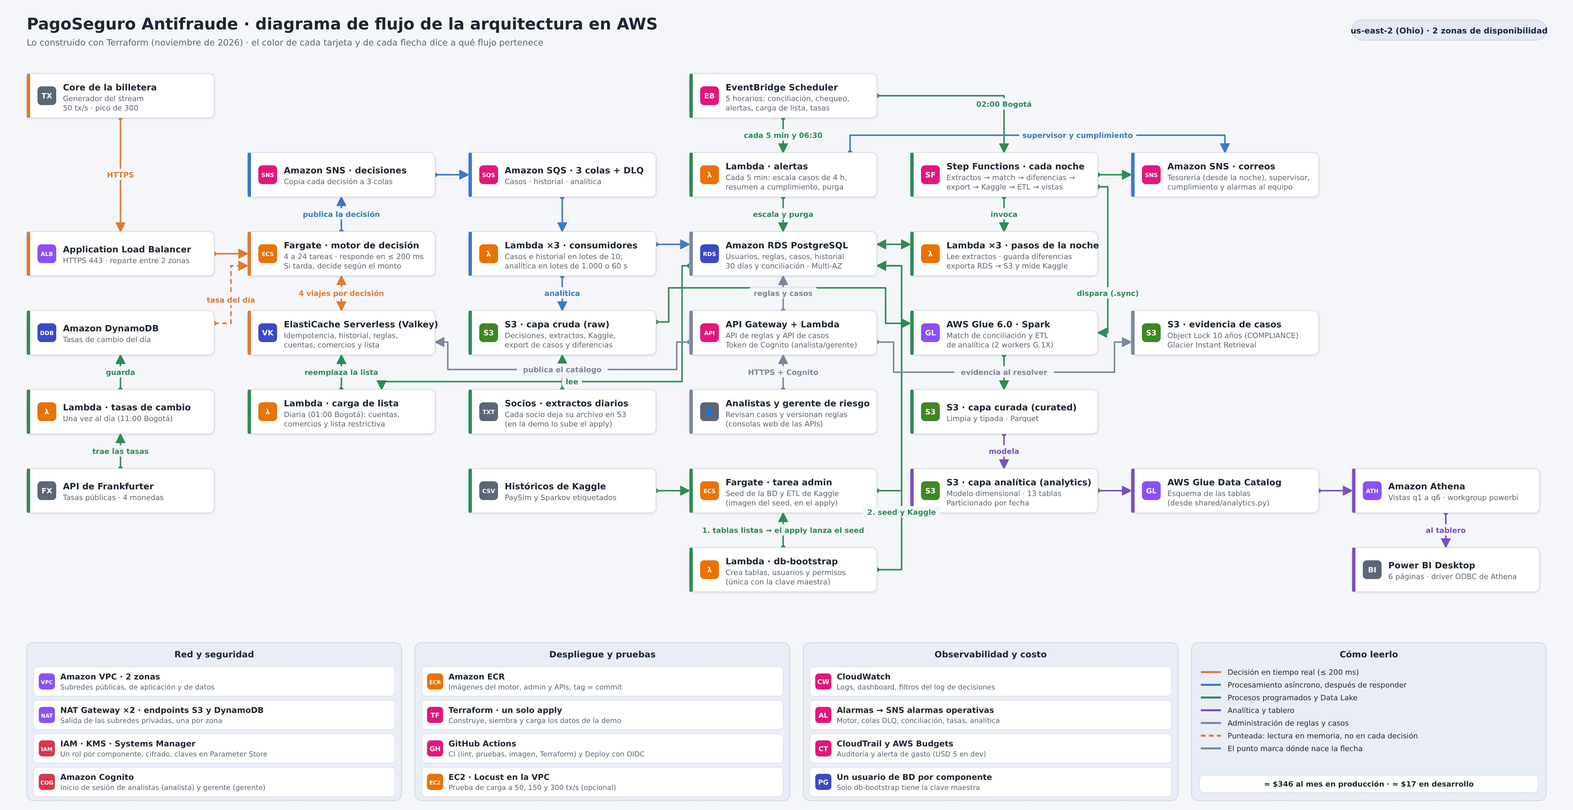
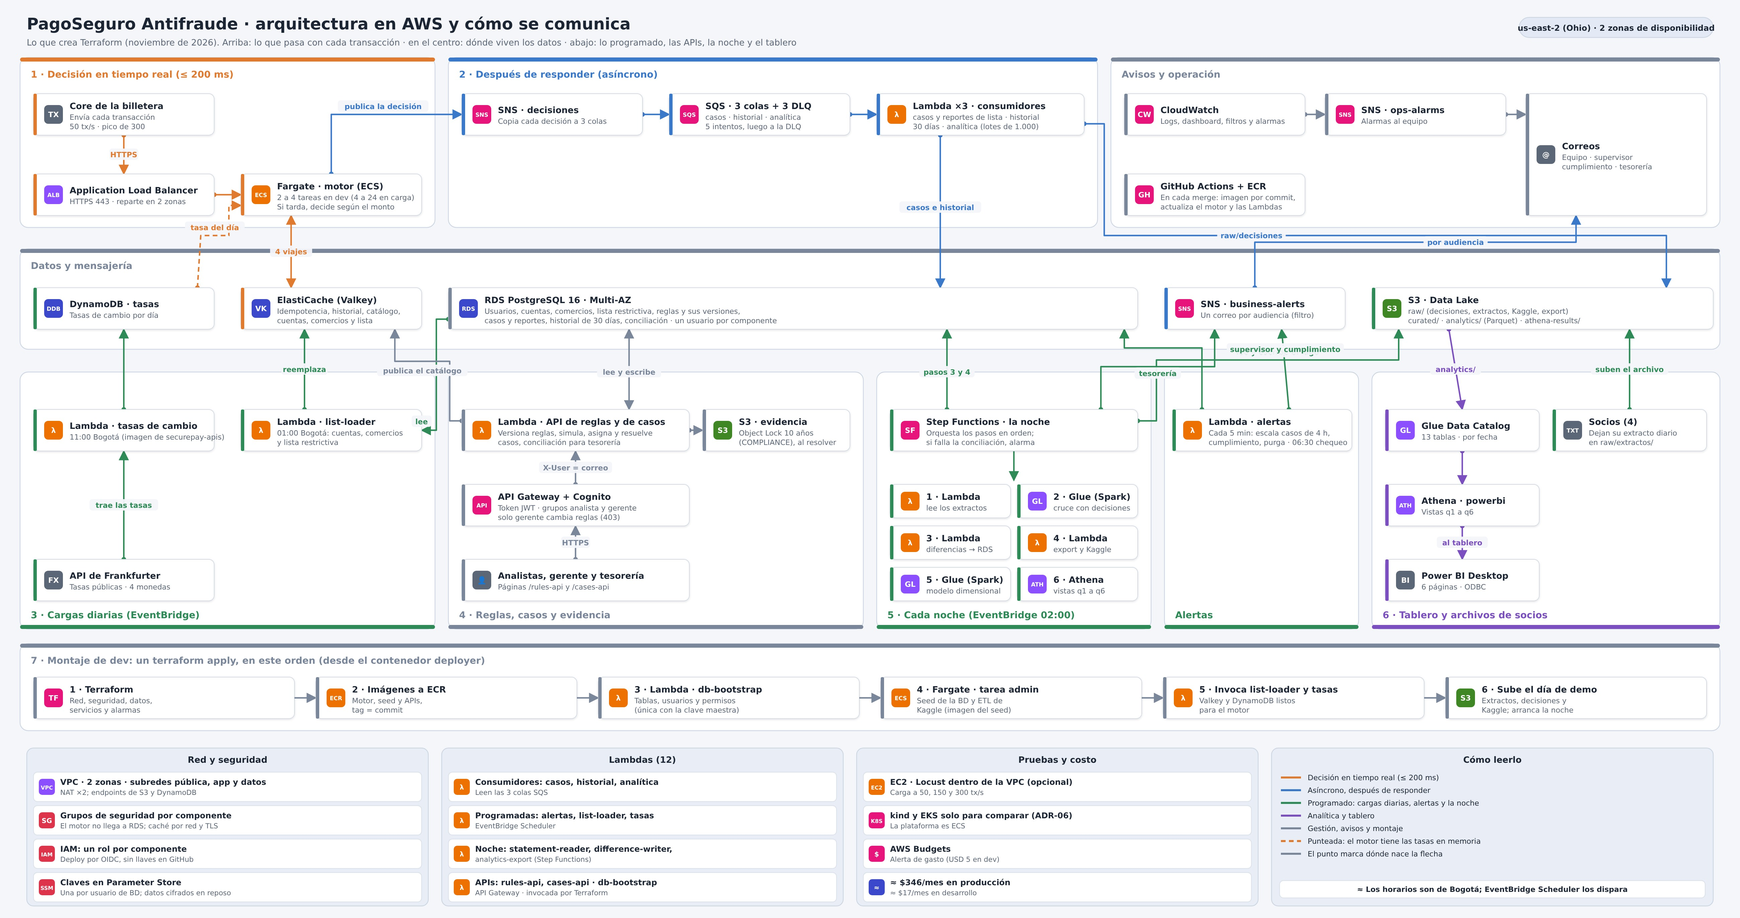
docs(MAG-308): redraw the architecture flow by zones
Redrawn from the Terraform modules: a data band in the middle, the
per-transaction zones above, the daily loads, APIs, night, alerts and
dashboard below, and the order of the one apply at the bottom.

diff --git a/doc-website/diagrams/architecture_flow.py b/doc-website/diagrams/architecture_flow.py
@@ -1,175 +1,215 @@
 """Architecture flow on AWS: doc-website/static/img/architecture-flow.jpg.
 
-Labels in Spanish, like the first version of the diagram (the pages say
-so under the image). Run from the repository root:
+Drawn from what Terraform creates (infra/terraform/modules, envs/dev). The
+labels are in Spanish, like the first version of the diagram (the pages say
+so under the image). The picture has a data band in the middle (DynamoDB,
+Valkey, RDS, the SNS topic of the e-mails and the Data Lake) and the zones
+that use it above (what happens per transaction) and below (what runs on a
+schedule, the APIs, the night and the dashboard), plus the order of the one
+`terraform apply` at the bottom. Run from the repository root:
 
-    uv run --group load python doc-website/diagrams/architecture_flow.py
+    python3 doc-website/diagrams/architecture_flow.py
 
-(any environment with Playwright works; the image needs Chromium).
-Change it when a service, a flow or the monthly cost changes.
+(Node's Playwright with Chromium draws the image). Change it when a
+service, a flow or the monthly cost changes.
 """
 
 from __future__ import annotations
 
 from pathlib import Path
 
-from common import Card, Svg, legend, panel, render
+from common import FLOW, MUTED, Card, Svg, legend, panel, render
 
-W, H = 2350, 1210
-CW, CH = 280, 66
-
-
-def x(c: int) -> float:
-    return 40 + c * 330
+W, H = 2600, 1372
+CW, CH = 270, 62
 
 
-def y(r: int) -> float:
-    return 110 + r * 118
+def zone(s: Svg, x, y, w, h, title, flow, bottom=False):
+    """A white area with a colored bar; the title goes at the bottom when
+    arrows come in from above."""
+    s.box(x, y, w, h, fill="#ffffff", stroke="#cdd6e3", rx=12)
+    bar = y + h - 6 if bottom else y
+    s.add(f'<rect x="{x}" y="{bar}" width="{w}" height="6" rx="3" fill="{FLOW[flow]}"/>')
+    s.text(x + 16, y + h - 16 if bottom else y + 30, title, size=14, weight="bold", color=FLOW[flow])
 
 
-def lane(c: int) -> float:
-    """Vertical lane between column c and c+1."""
-    return x(c) + CW + 25
-
-
-def gap(r: int) -> float:
-    """Horizontal lane between row r and r+1."""
-    return y(r) + CH + 26
-
-
-def card(c, r, title, sub, flow, icon, tag, **kw) -> Card:
-    return Card(x(c), y(r), title, sub, flow, icon, tag, w=CW, h=CH, **kw)
+def card(x, y, title, sub, flow, icon, tag, w=CW, h=CH, **kw) -> Card:
+    return Card(x, y, title, sub, flow, icon, tag, w=w, h=h, **kw)
 
 
 s = Svg(W, H)
-s.text(40, 44, "PagoSeguro Antifraude · diagrama de flujo de la arquitectura en AWS", size=24, weight="bold")
-s.text(40, 68, "Lo construido con Terraform (noviembre de 2026) · el color de cada tarjeta y de cada flecha dice a qué flujo pertenece", size=13, color="#5b6676")
-s.box(W - 330, 30, 290, 30, fill="#e3eaf5", stroke="#cdd6e3", rx=15)
-s.text(W - 185, 50, "us-east-2 (Ohio) · 2 zonas de disponibilidad", size=12, weight="bold", anchor="middle")
+s.text(40, 44, "PagoSeguro Antifraude · arquitectura en AWS y cómo se comunica", size=24, weight="bold")
+s.text(40, 68, "Lo que crea Terraform (noviembre de 2026). Arriba: lo que pasa con cada transacción · en el centro: dónde viven los datos · abajo: lo programado, las APIs, la noche y el tablero", size=13, color=MUTED)
+s.box(W - 330, 26, 290, 30, fill="#e3eaf5", stroke="#cdd6e3", rx=15)
+s.text(W - 185, 46, "us-east-2 (Ohio) · 2 zonas de disponibilidad", size=12, weight="bold", anchor="middle")
 
-# Column 0: the wallet's entry and the exchange rates.
-core = card(0, 0, "Core de la billetera", "Generador del stream\n50 tx/s · pico de 300", "realtime", "external", "TX")
-alb = card(0, 2, "Application Load Balancer", "HTTPS 443 · reparte entre 2 zonas", "realtime", "network", "ALB")
-rates = card(0, 3, "Amazon DynamoDB", "Tasas de cambio del día", "batch", "database", "DDB")
-rates_fn = card(0, 4, "Lambda · tasas de cambio", "Una vez al día (11:00 Bogotá)", "batch", "compute", "λ")
-frank = card(0, 5, "API de Frankfurter", "Tasas públicas · 4 monedas", "batch", "external", "FX")
+# ---- Top band: per transaction --------------------------------------------
+TOP, R1, R2 = 86, 140, 260
+zone(s, 30, TOP, 620, 254, "1 · Decisión en tiempo real (≤ 200 ms)", "realtime")
+zone(s, 670, TOP, 970, 254, "2 · Después de responder (asíncrono)", "async")
+zone(s, 1660, TOP, 910, 254, "Avisos y operación", "admin")
 
-# Column 1: the engine and its cache.
-sns_dec = card(1, 1, "Amazon SNS · decisiones", "Copia cada decisión a 3 colas", "async", "integration", "SNS")
-engine = card(1, 2, "Fargate · motor de decisión", "4 a 24 tareas · responde en ≤ 200 ms\nSi tarda, decide según el monto", "realtime", "compute", "ECS")
-cache = card(1, 3, "ElastiCache Serverless (Valkey)", "Idempotencia, historial, reglas,\ncuentas, comercios y lista", "realtime", "database", "VK")
-loader = card(1, 4, "Lambda · carga de lista", "Diaria (01:00 Bogotá): cuentas,\ncomercios y lista restrictiva", "batch", "compute", "λ")
+core = card(50, R1, "Core de la billetera", "Envía cada transacción\n50 tx/s · pico de 300", "realtime", "external", "TX")
+alb = card(50, R2, "Application Load Balancer", "HTTPS 443 · reparte en 2 zonas", "realtime", "network", "ALB")
+engine = card(360, R2, "Fargate · motor (ECS)", "2 a 4 tareas en dev (4 a 24 en carga)\nSi tarda, decide según el monto", "realtime", "compute", "ECS")
 
-# Column 2: the asynchronous path and the raw layer.
-sqs = card(2, 1, "Amazon SQS · 3 colas + DLQ", "Casos · historial · analítica", "async", "integration", "SQS")
-consumers = card(2, 2, "Lambda ×3 · consumidores", "Casos e historial en lotes de 10;\nanalítica en lotes de 1.000 o 60 s", "async", "compute", "λ")
-raw = card(2, 3, "S3 · capa cruda (raw)", "Decisiones, extractos, Kaggle,\nexport de casos y diferencias", "batch", "storage", "S3")
-partners = card(2, 4, "Socios · extractos diarios", "Cada socio deja su archivo en S3\n(en la demo lo sube el apply)", "batch", "external", "TXT")
-kaggle = card(2, 5, "Históricos de Kaggle", "PaySim y Sparkov etiquetados", "batch", "external", "CSV")
+sns_dec = card(690, R1, "SNS · decisiones", "Copia cada decisión a 3 colas", "async", "integration", "SNS")
+sqs = card(1000, R1, "SQS · 3 colas + 3 DLQ", "casos · historial · analítica\n5 intentos, luego a la DLQ", "async", "integration", "SQS")
+consumers = card(1310, R1, "Lambda ×3 · consumidores", "casos y reportes de lista · historial\n30 días · analítica (lotes de 1.000)", "async", "compute", "λ", w=310)
 
-# Column 3: schedules, alerts, the database and the APIs.
-sched = card(3, 0, "EventBridge Scheduler", "5 horarios: conciliación, chequeo,\nalertas, carga de lista, tasas", "batch", "management", "EB")
-alerts = card(3, 1, "Lambda · alertas", "Cada 5 min: escala casos de 4 h,\nresumen a cumplimiento, purga", "batch", "compute", "λ")
-rds = card(3, 2, "Amazon RDS PostgreSQL", "Usuarios, reglas, casos, historial\n30 días y conciliación · Multi-AZ", "admin", "database", "RDS")
-api = card(3, 3, "API Gateway + Lambda", "API de reglas y API de casos\nToken de Cognito (analista/gerente)", "admin", "integration", "API")
-people = card(3, 4, "Analistas y gerente de riesgo", "Revisan casos y versionan reglas\n(consolas web de las APIs)", "admin", "external", "👤")
-admin = card(3, 5, "Fargate · tarea admin", "Seed de la BD y ETL de Kaggle\n(imagen del seed, en el apply)", "batch", "compute", "ECS")
-dbboot = card(3, 6, "Lambda · db-bootstrap", "Crea tablas, usuarios y permisos\n(única con la clave maestra)", "batch", "compute", "λ")
+cw = card(1680, R1, "CloudWatch", "Logs, dashboard, filtros y alarmas", "admin", "management", "CW")
+sns_ops = card(1980, R1, "SNS · ops-alarms", "Alarmas al equipo", "admin", "integration", "SNS")
+mails = card(2280, R1, "Correos", "Equipo · supervisor\ncumplimiento · tesorería", "admin", "external", "@", h=182)
+deploy = card(1680, R2, "GitHub Actions + ECR", "En cada merge: imagen por commit,\nactualiza el motor y las Lambdas", "admin", "management", "GH")
 
-# Column 4: the nightly pipeline.
-sfn = card(4, 1, "Step Functions · cada noche", "Extractos → match → diferencias →\nexport → Kaggle → ETL → vistas", "batch", "integration", "SF")
-night = card(4, 2, "Lambda ×3 · pasos de la noche", "Lee extractos · guarda diferencias\nexporta RDS → S3 y mide Kaggle", "batch", "compute", "λ")
-glue = card(4, 3, "AWS Glue 6.0 · Spark", "Match de conciliación y ETL\nde analítica (2 workers G.1X)", "batch", "analytics", "GL")
-curated = card(4, 4, "S3 · capa curada (curated)", "Limpia y tipada · Parquet", "batch", "storage", "S3")
-model = card(4, 5, "S3 · capa analítica (analytics)", "Modelo dimensional · 13 tablas\nParticionado por fecha", "analytics", "storage", "S3")
+# ---- Data band --------------------------------------------------------------
+zone(s, 30, 372, 2540, 150, "Datos y mensajería", "admin")
+DY = 430
+ddb = card(50, DY, "DynamoDB · tasas", "Tasas de cambio por día", "batch", "database", "DDB")
+valkey = card(360, DY, "ElastiCache (Valkey)", "Idempotencia, historial, catálogo,\ncuentas, comercios y lista", "realtime", "database", "VK")
+rds = card(670, DY, "RDS PostgreSQL 16 · Multi-AZ", "Usuarios, cuentas, comercios, lista restrictiva, reglas y sus versiones,\ncasos y reportes, historial de 30 días, conciliación · un usuario por componente", "admin", "database", "RDS", w=1030)
+sns_biz = card(1740, DY, "SNS · business-alerts", "Un correo por audiencia (filtro)", "async", "integration", "SNS")
+lake = card(2050, DY, "S3 · Data Lake", "raw/ (decisiones, extractos, Kaggle, export)\ncurated/ · analytics/ (Parquet) · athena-results/", "batch", "storage", "S3", w=510)
 
-# Columns 5 and 6: notices, evidence and the dashboard.
-mails = card(5, 1, "Amazon SNS · correos", "Tesorería (desde la noche), supervisor,\ncumplimiento y alarmas al equipo", "async", "integration", "SNS")
-evidence = card(5, 3, "S3 · evidencia de casos", "Object Lock 10 años (COMPLIANCE)\nGlacier Instant Retrieval", "admin", "storage", "S3")
-catalog = card(5, 5, "AWS Glue Data Catalog", "Esquema de las tablas\n(desde shared/analytics.py)", "analytics", "analytics", "GL")
-athena = card(6, 5, "Amazon Athena", "Vistas q1 a q6 · workgroup powerbi", "analytics", "analytics", "ATH")
-pbi = card(6, 6, "Power BI Desktop", "6 páginas · driver ODBC de Athena", "analytics", "external", "BI")
+# ---- Bottom band --------------------------------------------------------------
+BOT, B1, B2, B3 = 556, 612, 724, 836
+zone(s, 30, BOT, 620, 384, "3 · Cargas diarias (EventBridge)", "batch", bottom=True)
+zone(s, 670, BOT, 620, 384, "4 · Reglas, casos y evidencia", "admin", bottom=True)
+zone(s, 1310, BOT, 410, 384, "5 · Cada noche (EventBridge 02:00)", "batch", bottom=True)
+zone(s, 1740, BOT, 290, 384, "Alertas", "batch", bottom=True)
+zone(s, 2050, BOT, 520, 384, "6 · Tablero y archivos de socios", "analytics", bottom=True)
 
-cards = [core, alb, rates, rates_fn, frank, sns_dec, engine, cache, loader, sqs, consumers, raw,
-         partners, kaggle, sched, alerts, rds, api, people, admin, dbboot, sfn, night, glue, curated, model,
-         mails, evidence, catalog, athena, pbi]
+rates_fn = card(50, B1, "Lambda · tasas de cambio", "11:00 Bogotá (imagen de securepay-apis)", "batch", "compute", "λ")
+frank = card(50, B3, "API de Frankfurter", "Tasas públicas · 4 monedas", "batch", "external", "FX")
+loader = card(360, B1, "Lambda · list-loader", "01:00 Bogotá: cuentas, comercios\ny lista restrictiva", "batch", "compute", "λ")
 
-# Real time (orange).
+apis = card(690, B1, "Lambda · API de reglas y de casos", "Versiona reglas, simula, asigna y resuelve\ncasos, conciliación para tesorería", "admin", "compute", "λ", w=340)
+evidence = card(1050, B1, "S3 · evidencia", "Object Lock 10 años\n(COMPLIANCE), al resolver", "admin", "storage", "S3", w=220)
+gw = card(690, B2, "API Gateway + Cognito", "Token JWT · grupos analista y gerente\nsolo gerente cambia reglas (403)", "admin", "integration", "API", w=340)
+people = card(690, B3, "Analistas, gerente y tesorería", "Páginas /rules-api y /cases-api", "admin", "external", "👤", w=340)
+
+sfn = card(1330, B1, "Step Functions · la noche", "Orquesta los pasos en orden;\nsi falla la conciliación, alarma", "batch", "integration", "SF", w=370)
+SW = 180
+step = [
+    card(1330, B2, "1 · Lambda", "lee los extractos", "batch", "compute", "λ", w=SW, h=50),
+    card(1520, B2, "2 · Glue (Spark)", "cruce con decisiones", "batch", "analytics", "GL", w=SW, h=50),
+    card(1330, B2 + 62, "3 · Lambda", "diferencias → RDS", "batch", "compute", "λ", w=SW, h=50),
+    card(1520, B2 + 62, "4 · Lambda", "export y Kaggle", "batch", "compute", "λ", w=SW, h=50),
+    card(1330, B2 + 124, "5 · Glue (Spark)", "modelo dimensional", "batch", "analytics", "GL", w=SW, h=50),
+    card(1520, B2 + 124, "6 · Athena", "vistas q1 a q6", "batch", "analytics", "ATH", w=SW, h=50),
+]
+
+alerts = card(1752, B1, "Lambda · alertas", "Cada 5 min: escala casos de 4 h,\ncumplimiento, purga · 06:30 chequeo", "batch", "compute", "λ", w=268)
+
+catalog = card(2070, B1, "Glue Data Catalog", "13 tablas · por fecha", "analytics", "analytics", "GL", w=230)
+athena = card(2070, B2, "Athena · powerbi", "Vistas q1 a q6", "analytics", "analytics", "ATH", w=230)
+pbi = card(2070, B3, "Power BI Desktop", "6 páginas · ODBC", "analytics", "external", "BI", w=230)
+partners = card(2320, B1, "Socios (4)", "Dejan su extracto diario\nen raw/extractos/", "batch", "external", "TXT", w=230)
+
+cards = [core, alb, engine, sns_dec, sqs, consumers, cw, sns_ops, mails, deploy, ddb, valkey, rds, sns_biz,
+         lake, rates_fn, frank, loader, apis, evidence, gw, people, sfn, *step, alerts, catalog, athena,
+         pbi, partners]
+
+# ---- Arrows -------------------------------------------------------------------
+# Real time.
 s.arrow([core.bottom(), alb.top()], "realtime", "HTTPS")
 s.arrow([alb.right(), engine.left()], "realtime")
-s.arrow([engine.bottom(), cache.top()], "realtime", "4 viajes por decisión", both=True)
-s.arrow([rates.right(-14), (lane(0), rates.cy - 14), (lane(0), engine.cy + 18), engine.left(18)], "realtime", "tasa del día", at=1, dashed=True, lx=0, ly=8)
+s.arrow([engine.bottom(-60), valkey.top(-60)], "realtime", "4 viajes", both=True, lx=0)
+s.arrow([ddb.top(110), (ddb.x + 250, alb.y + alb.h + 30), (engine.x - 18, alb.y + alb.h + 30), (engine.x - 18, engine.cy + 16), engine.left(16)], "realtime", "tasa del día", at=1, dashed=True, ly=-12)
 
-# Asynchronous (blue).
-s.arrow([engine.top(), sns_dec.bottom()], "async", "publica la decisión")
+# Asynchronous.
+s.arrow([engine.top(), (engine.cx, sns_dec.cy), sns_dec.left()], "async", "publica la decisión", at=1, lx=-20, ly=-12)
 s.arrow([sns_dec.right(), sqs.left()], "async")
-s.arrow([sqs.bottom(), consumers.top()], "async")
-s.arrow([consumers.right(-14), rds.left(-14)], "async")
-s.arrow([consumers.bottom(), raw.top()], "async", "analítica")
+s.arrow([sqs.right(), consumers.left()], "async")
+s.arrow([consumers.bottom(-60), (consumers.cx - 60, rds.y)], "async", "casos e historial", ly=-6)
+s.arrow([consumers.right(14), (1650, consumers.cy + 14), (1650, 352), (lake.x + 440, 352), lake.top(185)], "async", "raw/decisiones", at=2, lx=-200)
 
-# Batch and the night (green).
-s.arrow([sched.bottom(), alerts.top()], "batch", "cada 5 min y 06:30")
-s.arrow([sched.right(), (sfn.cx, sched.cy), sfn.top()], "batch", "02:00 Bogotá", at=1, ly=-30)
+# Notices.
+s.arrow([cw.right(), sns_ops.left()], "admin")
+s.arrow([sns_ops.right(), (mails.x, sns_ops.cy)], "admin")
+s.arrow([sns_biz.top(), (sns_biz.cx, 362), (mails.cx - 60, 362), mails.bottom(-60)], "async", "por audiencia", at=1, lx=60)
+
+# Daily loads.
 s.arrow([frank.top(), rates_fn.bottom()], "batch", "trae las tasas")
-s.arrow([rates_fn.top(), rates.bottom()], "batch", "guarda")
-s.arrow([loader.top(), cache.bottom()], "batch", "reemplaza la lista")
-s.arrow([rds.left(18), (lane(2) + 14, rds.cy + 18), (lane(2) + 14, gap(3) + 14), (loader.cx + 60, gap(3) + 14), loader.top(60)], "batch", "lee", at=2, lx=60)
-s.arrow([alerts.bottom(), rds.top()], "batch", "escala y purga")
-s.arrow([alerts.top(100), (alerts.cx + 100, gap(0)), (mails.cx, gap(0)), mails.top()], "async", "supervisor y cumplimiento", at=1, lx=60)
-s.arrow([partners.top(), raw.bottom()], "batch", "suben el archivo")
-s.arrow([kaggle.right(), admin.left()], "batch")
-s.arrow([admin.right(), (lane(3) + 12, admin.cy), (lane(3) + 12, rds.cy + 18), rds.right(18)], "batch", "2. seed y Kaggle", at=1, ly=200)
-s.arrow([dbboot.right(), (lane(3) + 12, dbboot.cy), (lane(3) + 12, rds.cy + 18), rds.right(18)], "batch")
-s.arrow([dbboot.top(), admin.bottom()], "batch", "1. tablas listas → el apply lanza el seed")
-s.arrow([sfn.bottom(), night.top()], "batch", "invoca")
-s.arrow([night.left(-14), rds.right(-14)], "batch", both=True)
-s.arrow([sfn.right(), mails.left()], "batch")
-s.arrow([sfn.right(18), (lane(4) - 10, sfn.cy + 18), (lane(4) - 10, glue.cy), glue.right()], "batch", "dispara (.sync)", at=1, ly=50)
-s.arrow([raw.right(-16), (lane(2) - 6, raw.cy - 16), (lane(2) - 6, gap(2) - 8), (lane(3) - 12, gap(2) - 8), (lane(3) - 12, glue.cy - 14), glue.left(-14)], "batch")
-s.arrow([glue.bottom(), curated.top()], "batch", "limpia")
-s.arrow([curated.bottom(), model.top()], "analytics", "modela")
-s.arrow([model.right(), catalog.left()], "analytics")
-s.arrow([catalog.right(), athena.left()], "analytics")
-s.arrow([athena.bottom(), pbi.top()], "analytics", "al tablero")
+s.arrow([rates_fn.top(), ddb.bottom()], "batch")
+s.arrow([loader.top(-40), valkey.bottom(-40)], "batch", "reemplaza")
+s.arrow([rds.left(16), (652, rds.cy + 16), (652, loader.cy), loader.right()], "batch", "lee", at=1, lx=-22, ly=70)
 
-# Management (gray).
-s.arrow([people.top(), api.bottom()], "admin", "HTTPS + Cognito")
-s.arrow([api.top(), rds.bottom()], "admin", "reglas y casos")
-s.arrow([api.left(14), (lane(2) + 6, api.cy + 14), (lane(2) + 6, gap(3) - 4), (lane(1) - 6, gap(3) - 4), (lane(1) - 6, cache.cy + 14), cache.right(14)], "admin", "publica el catálogo", at=2)
-s.arrow([api.right(14), (lane(3), api.cy + 14), (lane(3), gap(3)), (lane(4), gap(3)), (lane(4), evidence.cy + 14), evidence.left(14)], "admin", "evidencia al resolver", at=2)
+# Rules, cases and evidence.
+s.arrow([people.top(), gw.bottom()], "admin", "HTTPS")
+s.arrow([gw.top(), apis.bottom()], "admin", "X-User = correo")
+s.arrow([apis.top(80), (apis.cx + 80, rds.y + rds.h)], "admin", "lee y escribe", both=True, ly=4)
+s.arrow([apis.left(-14), (672, apis.cy - 14), (672, 540), (valkey.x + 230, 540), valkey.bottom(95)], "admin", "publica el catálogo", at=2, ly=14)
+s.arrow([apis.right(), evidence.left()], "admin")
+
+# The night.
+s.arrow([sfn.top(-100), (sfn.cx - 100, rds.y + rds.h)], "batch", "pasos 3 y 4", ly=4)
+s.arrow([sfn.bottom(), (sfn.cx, step[0].y - 6)], "batch", start_dot=False)
+s.arrow([sfn.right(-14), (1728, sfn.cy - 14), (1728, 538), (lake.x + 40, 538), lake.bottom(-215)], "batch", "lee y escribe el lago", at=2, ly=-12)
+s.arrow([sfn.top(130), (sfn.cx + 130, 548), (sns_biz.cx - 60, 548), sns_biz.bottom(-60)], "batch", "tesorería", at=1, lx=0, ly=10)
+
+# Alerts.
+s.arrow([alerts.top(40), sns_biz.bottom(40)], "batch", "supervisor y cumplimiento", ly=-30)
+s.arrow([alerts.top(-90), (alerts.cx - 90, 520), (rds.x + rds.w - 20, 520), rds.bottom(rds.w / 2 - 20)], "batch")
+
+# Dashboard and partners.
+s.arrow([lake.bottom(-140), catalog.top()], "analytics", "analytics/")
+s.arrow([catalog.bottom(), athena.top()], "analytics")
+s.arrow([athena.bottom(), pbi.top()], "analytics", "al tablero")
+s.arrow([partners.top(), (partners.cx, lake.y + lake.h)], "batch", "suben el archivo")
 
 for c in cards:
     s.card(c)
 
-# Bottom panels.
-py = 960
-panel(s, 40, py, 560, 236, "Red y seguridad", [
-    ("network", "VPC", "Amazon VPC · 2 zonas", "Subredes públicas, de aplicación y de datos"),
-    ("network", "NAT", "NAT Gateway ×2 · endpoints S3 y DynamoDB", "Salida de las subredes privadas, una por zona"),
-    ("security", "IAM", "IAM · KMS · Systems Manager", "Un rol por componente, cifrado, claves en Parameter Store"),
-    ("security", "COG", "Amazon Cognito", "Inicio de sesión de analistas (analista) y gerente (gerente)"),
+# ---- The one apply --------------------------------------------------------------
+AY = 962
+zone(s, 30, AY, 2540, 130, "7 · Montaje de dev: un terraform apply, en este orden (desde el contenedor deployer)", "admin")
+seq = [
+    ("TF", "management", "Terraform", "Red, seguridad, datos,\nservicios y alarmas"),
+    ("ECR", "compute", "Imágenes a ECR", "Motor, seed y APIs,\ntag = commit"),
+    ("λ", "compute", "Lambda · db-bootstrap", "Tablas, usuarios y permisos\n(única con la clave maestra)"),
+    ("ECS", "compute", "Fargate · tarea admin", "Seed de la BD y ETL de\nKaggle (imagen del seed)"),
+    ("λ", "compute", "Invoca list-loader y tasas", "Valkey y DynamoDB listos\npara el motor"),
+    ("S3", "storage", "Sube el día de demo", "Extractos, decisiones y\nKaggle; arranca la noche"),
+]
+sw, gx = 390, 32
+prev = None
+for i, (tag, icon, title, sub) in enumerate(seq):
+    c = card(50 + i * (sw + gx), AY + 50, f"{i + 1} · {title}", sub, "admin", icon, tag, w=sw)
+    if prev:
+        s.arrow([prev.right(), c.left()], "admin", start_dot=False)
+    s.card(c)
+    prev = c
+
+# ---- Panels -------------------------------------------------------------------
+py = 1118
+panel(s, 40, py, 600, 236, "Red y seguridad", [
+    ("network", "VPC", "VPC · 2 zonas · subredes pública, app y datos", "NAT ×2; endpoints de S3 y DynamoDB"),
+    ("security", "SG", "Grupos de seguridad por componente", "El motor no llega a RDS; caché por red y TLS"),
+    ("security", "IAM", "IAM: un rol por componente", "Deploy por OIDC, sin llaves en GitHub"),
+    ("security", "SSM", "Claves en Parameter Store", "Una por usuario de BD; datos cifrados en reposo"),
 ])
-panel(s, 620, py, 560, 236, "Despliegue y pruebas", [
-    ("compute", "ECR", "Amazon ECR", "Imágenes del motor, admin y APIs, tag = commit"),
-    ("management", "TF", "Terraform · un solo apply", "Construye, siembra y carga los datos de la demo"),
-    ("management", "GH", "GitHub Actions", "CI (lint, pruebas, imagen, Terraform) y Deploy con OIDC"),
-    ("compute", "EC2", "EC2 · Locust en la VPC", "Prueba de carga a 50, 150 y 300 tx/s (opcional)"),
+panel(s, 660, py, 600, 236, "Lambdas (12)", [
+    ("compute", "λ", "Consumidores: casos, historial, analítica", "Leen las 3 colas SQS"),
+    ("compute", "λ", "Programadas: alertas, list-loader, tasas", "EventBridge Scheduler"),
+    ("compute", "λ", "Noche: statement-reader, difference-writer,", "analytics-export (Step Functions)"),
+    ("compute", "λ", "APIs: rules-api, cases-api · db-bootstrap", "API Gateway · invocada por Terraform"),
 ])
-panel(s, 1200, py, 560, 236, "Observabilidad y costo", [
-    ("management", "CW", "CloudWatch", "Logs, dashboard, filtros del log de decisiones"),
-    ("management", "AL", "Alarmas → SNS alarmas operativas", "Motor, colas DLQ, conciliación, tasas, analítica"),
-    ("management", "CT", "CloudTrail y AWS Budgets", "Auditoría y alerta de gasto (USD 5 en dev)"),
-    ("database", "PG", "Un usuario de BD por componente", "Solo db-bootstrap tiene la clave maestra"),
+panel(s, 1280, py, 600, 236, "Pruebas y costo", [
+    ("compute", "EC2", "EC2 · Locust dentro de la VPC (opcional)", "Carga a 50, 150 y 300 tx/s"),
+    ("management", "K8S", "kind y EKS solo para comparar (ADR-06)", "La plataforma es ECS"),
+    ("management", "$", "AWS Budgets", "Alerta de gasto (USD 5 en dev)"),
+    ("database", "≈", "≈ $346/mes en producción", "≈ $17/mes en desarrollo"),
 ])
-legend(s, 1780, py, 530, 236, [
+legend(s, 1900, py, 660, 236, [
     ("realtime", "Decisión en tiempo real (≤ 200 ms)", False),
-    ("async", "Procesamiento asíncrono, después de responder", False),
-    ("batch", "Procesos programados y Data Lake", False),
+    ("async", "Asíncrono, después de responder", False),
+    ("batch", "Programado: cargas diarias, alertas y la noche", False),
     ("analytics", "Analítica y tablero", False),
-    ("admin", "Administración de reglas y casos", False),
-    ("realtime", "Punteada: lectura en memoria, no en cada decisión", True),
+    ("admin", "Gestión, avisos y montaje", False),
+    ("realtime", "Punteada: el motor tiene las tasas en memoria", True),
     ("admin", "El punto marca dónde nace la flecha", False),
-], "≈ $346 al mes en producción · ≈ $17 en desarrollo")
+], "≈ Los horarios son de Bogotá; EventBridge Scheduler los dispara")
 
 if __name__ == "__main__":
     out = Path(__file__).resolve().parents[1] / "static" / "img" / "architecture-flow.jpg"
